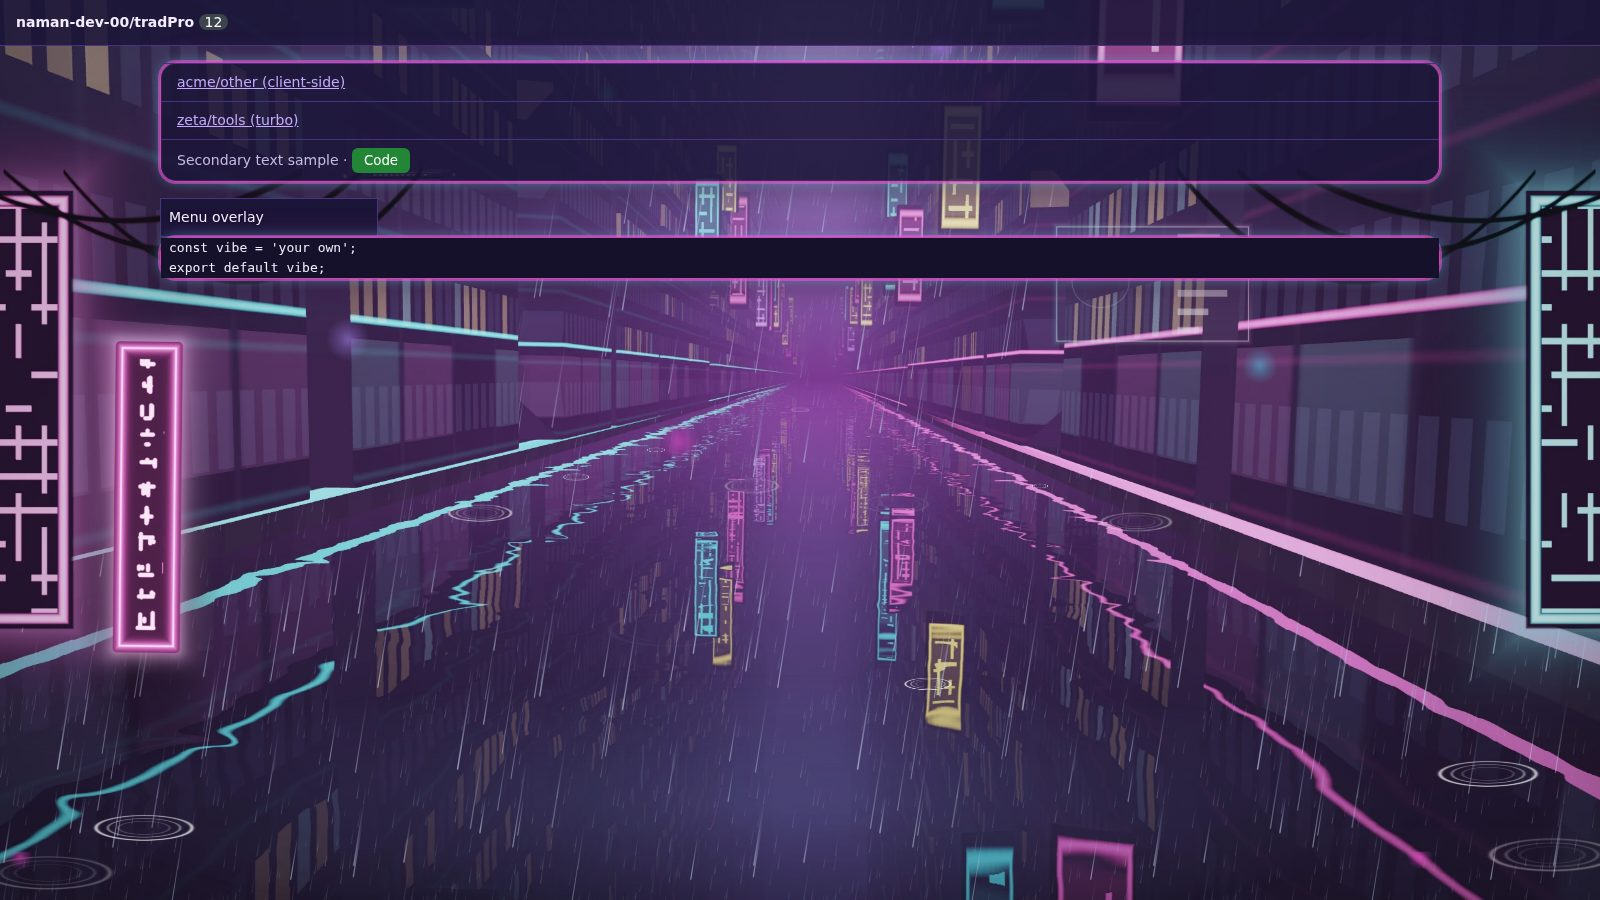
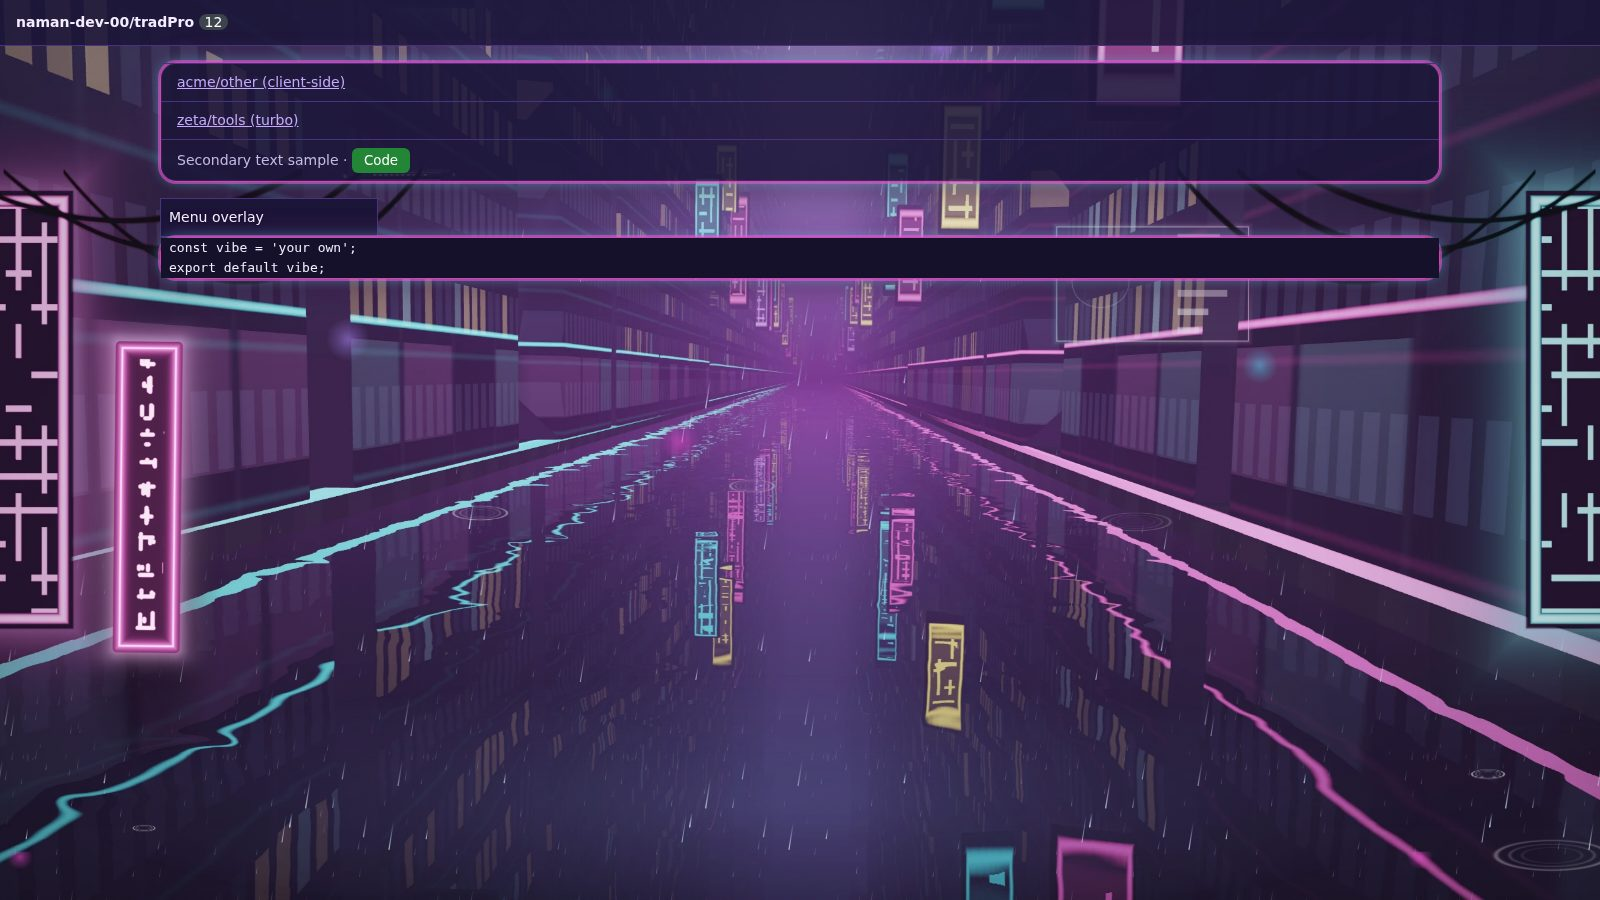
Round 3b: Lite test expects head-first swimmers; report
Claude-Session: https://claude.ai/code/session_018pJs9o4gSBzLeWY4NbbjW7

diff --git a/tests/e2e/rework.e2e.js b/tests/e2e/rework.e2e.js
@@ -93,7 +93,7 @@ test('reworked worlds ship their assets: Pixel Paradise and Arctic Frost layers 
 });
 
 test('Lite / Auto on a slow machine: weather never freezes — rain, snow and petals keep falling, ripples run, plants sway, swimmers swim', async () => {
-  for (const [id, label, must] of [['preset-1', 'cyberpunk', ['repv-rain', 'repv-ripple']], ['preset-12', 'arctic', ['repv-tile']], ['preset-3', 'sakura', ['repv-tile', 'repv-gust-r']], ['preset-7', 'ocean', ['repv-cross', 'repv-gust-r']]]) {
+  for (const [id, label, must] of [['preset-1', 'cyberpunk', ['repv-rain', 'repv-ripple']], ['preset-12', 'arctic', ['repv-tile']], ['preset-3', 'sakura', ['repv-tile', 'repv-gust-r']], ['preset-7', 'ocean', ['repv-cross-rev', 'repv-gust-r']]]) {
     const { context, errors, close } = await launch({ colorScheme: 'dark' });
     try {
       context.setDefaultTimeout(30000);

diff --git a/docs/REWORK4_REPORT.md b/docs/REWORK4_REPORT.md
@@ -1,0 +1,41 @@
+# Additional visual feedback (round 3b, 2026-11-12)
+
+Statuses unchanged: approved — Enchanted Forest, Cosmic Galaxy, Futuristic Sci-Fi, Pixel Paradise, Arctic Frost; experimental — Sakura Dreams,
+Ocean Depths (and the other non-reviewed themes); archived — Synthwave theme and the six backgrounds listed in `docs/REWORK3_REPORT.md`.
+
+## Sakura Dreams (painted, `scripts/wallpapers/sakura-paint.py`)
+* **Straight road**: a stone-paved road runs dead straight to the vanishing point (it previously wavered), with paving rows in perspective,
+  staggered joints and pale curbs; fallen petals lie on it.
+* **Anime look**: a saturated blue sky fading to a pink-white horizon with big cel-shaded cumulus (white lit tops, lavender-blue shade, flat
+  bases); a snow-capped volcanic peak at the end of the road (lit snow face / shaded face, haze toward its foot); every blossom cluster is first
+  laid down as a cel-shaded clump (shadow tone + lit cap) and then covered with individual blossoms, so crowns read as full, rounded anime
+  masses; fresher meadow greens. The ~130 trees from round 3 (avenue, orchard, hill groves, arching near crowns) are kept.
+* Text backing unchanged: rose-tinted, guarded opacity, 0 AA failures.
+
+## Cyberpunk Neon — drizzle matched to the ripples
+* Rain → **drizzle**: about half as many streaks, shorter and hairline (round caps), falling at roughly 40 % of the previous speed
+  (near 1.5 s / far 2.6 s per 400 px loop instead of 0.62 / 1.05 s).
+* The canal rings now match it: each of the 20 drop points lands **once every 7–10 s** (the ring spreads and fades in the first third of its
+  cycle, then the water there is calm), so about two light rings are spreading at any moment — previously every point rang continuously
+  every ~3 s. Rings rest (faint) in Static and reduced motion and keep running in Lite.
+
+## Ocean Depths
+* **Turtles swim forward**: the sea-life sprites face left but the turtle and one fish school crossed left → right, i.e. tail first. Every
+  crossing swimmer now travels the way it faces; the pop-out turtle and fish paddle in place instead of drifting backwards. Browser test checks
+  every swimmer's direction and that the turtle's x decreases over time; evidence `docs/screenshots/rework4/motion/ocean-turtle-forward.jpg`.
+* **No plants on the middle rock**: the four seagrass sprites (which stood on the rock) are removed, and baked seagrass now grows only in the
+  sand (never on rock).
+* Refinement: soft contact shadows under the rocks, cooler blue-green seagrass. Plants: 16 swaying (kelp, sea fans, soft corals, anemones).
+
+## Evidence (real github.com page replay, logged out; default Auto quality)
+* Before (round 3) / after: `docs/screenshots/rework4/compare/{sakura-dreams,cyberpunk-neon,ocean-depths}.jpg`
+* Motion: `docs/screenshots/rework4/motion/` — Sakura updated scene, Cyberpunk drizzle + rings (four frames 0.5 s apart), Ocean turtle head first
+* Recordings: `docs/recordings/rework4/`
+
+## Tests
+Unit 36/36. Browser E2E full run 82/83 — the one failure was the Lite-mode test still expecting Ocean's `repv-cross` animation (swimmers now
+use `repv-cross-rev`); expectation updated, the rework file re-ran 7/7. New test: swimmers head first, no plants on the middle rock.
+
+## Limitations
+* Sakura is a stylised procedural painting in an anime spirit, not hand-drawn anime art.
+* GPU smoothness and signed-in GitHub visuals are UNVERIFIED.
